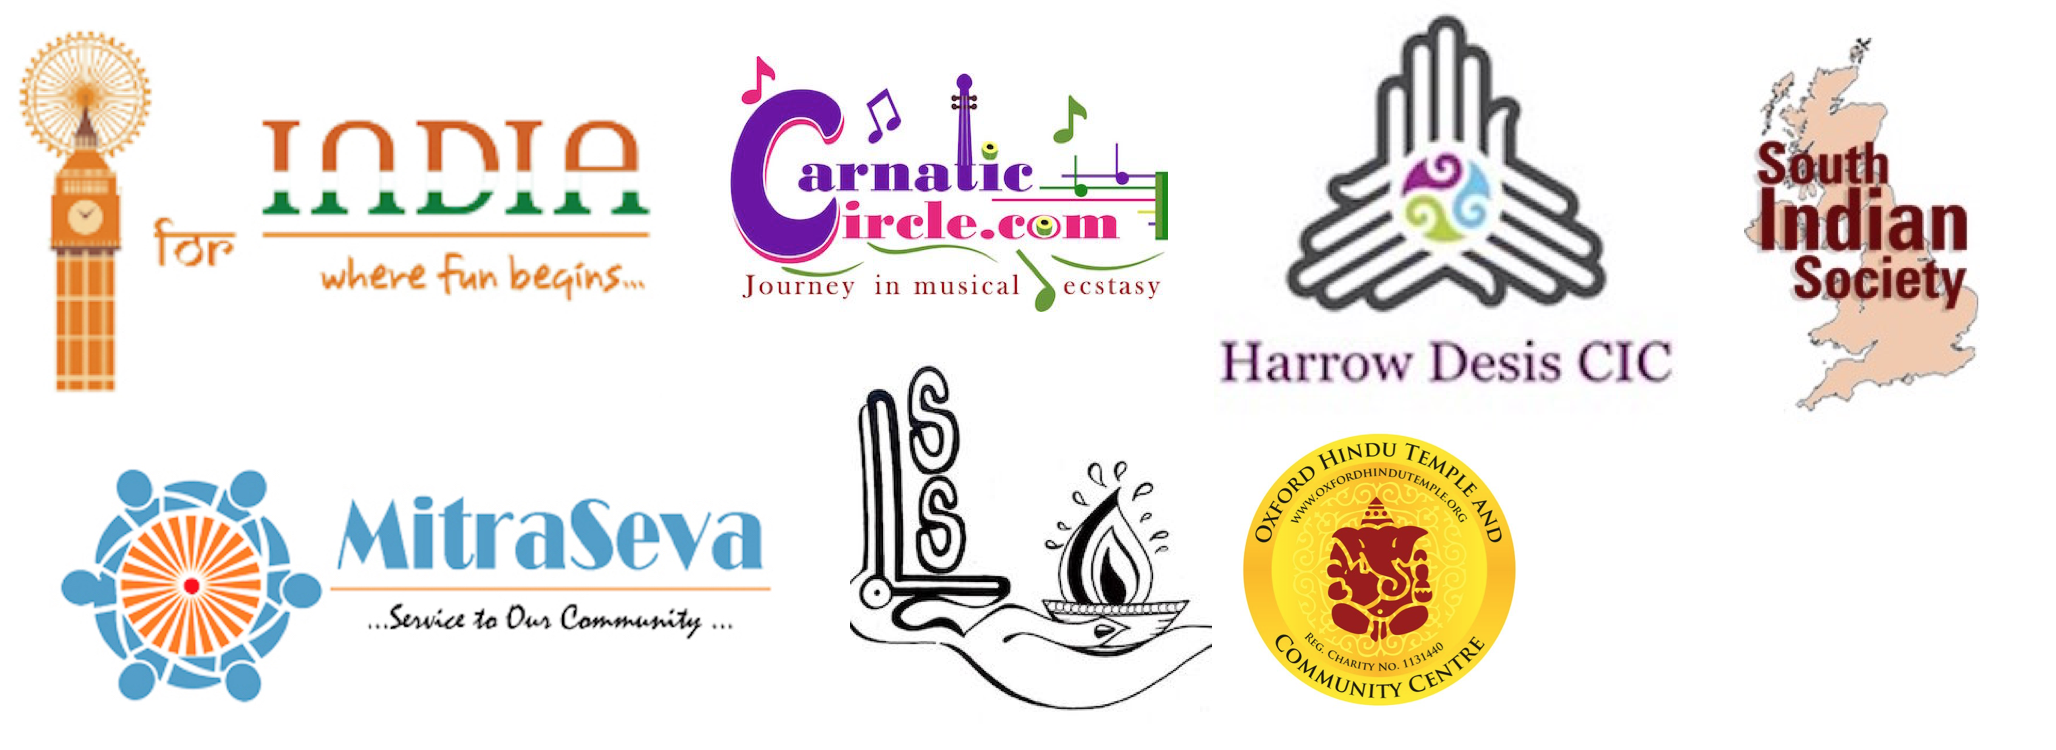
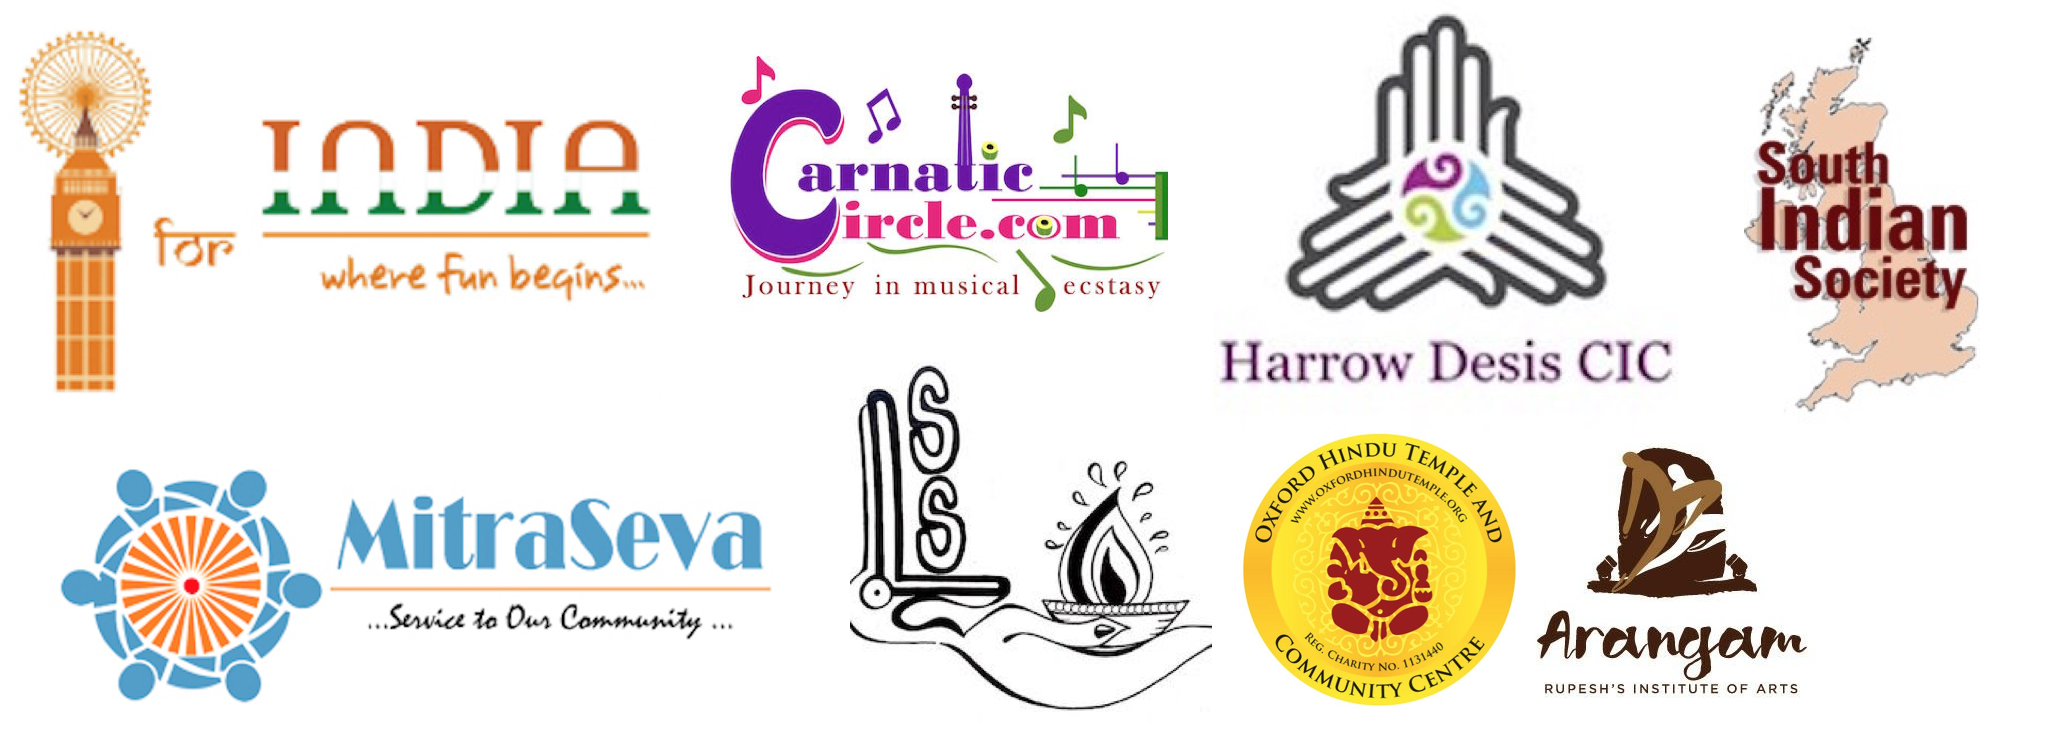
updated unchavrtti workshop

Changed region(s): [[0.7471, 0.5827, 0.8716, 0.92]]

diff --git a/index.html b/index.html
@@ -5,7 +5,7 @@
     <meta name="viewport" content="width=device-width, initial-scale=1, shrink-to-fit=no">
     <meta name="description" content="">
     <meta name="author" content="">
-    <title>Sri Radha Madhav Kalayanam UK 2018</title>
+    <title>Sri Radha Madhav Kalayanam UK</title>
 
     <!-- Bootstrap core CSS -->
     <link href="vendor/bootstrap/css/bootstrap.min.css" rel="stylesheet">
@@ -79,7 +79,24 @@
 
     <section class="bg-primary" id="invitation">
       <div class="container">
-        <h2 class="text-center text-uppercase">Invitation</h2>
+        <h2 class="text-center text-uppercase">Pre Events</h2>
+        <p>&nbsp;</p>
+        <div class="row">
+          <div class="col-md-12 col-lg-6">
+            <h3 class="text-center text-uppercase">Unchavrtti</h3>
+            <a class="portfolio-item d-block mx-auto" href="#portfolio-modal-4">
+              <img class="img-fluid" src="img/unchavrtti.jpg" alt="">
+            </a>
+          </div>
+          <div class="col-md-12 col-lg-6">
+            <h3 class="text-center text-uppercase">Bhajan Workshop</h3>
+            <a class="portfolio-item d-block mx-auto" href="#portfolio-modal-5">
+              <img class="img-fluid" src="img/workshop.jpg" alt="">
+            </a>
+          </div>
+        </div>
+        <p>&nbsp;</p>
+        <h2 class="text-center text-uppercase">Main Event Invitation</h2>
         <p>&nbsp;</p>
         <div class="row">
           <div class="col-md-12 col-lg-6">
@@ -172,14 +189,14 @@
               <h3>NOV</h3>
             </div>
             <div class="col-10">
-              <h3><strong>Shasta Kalyanam</strong></h3>
+              <h3><strong>Shri Poorna Pushkala Thiru Shasta Kalyanam</strong></h3>
               <ul class="list-inline">
                 <li class="list-inline-item"><i class="fa fa-calendar" aria-hidden="true"></i> Friday</li>
                 <li class="list-inline-item"><i class="fa fa-clock" aria-hidden="true"></i> 6:00 PM - 9:00 PM</li>
                 <li class="list-inline-item"><i class="fa fa-location-arrow" aria-hidden="true"></i> <strong>Harrow</strong></li>
               </ul>
-              <p><span class="text-left">T.B.D</span>
-                  <br><span class="text-left text-muted">RSVP: </span></p>
+              <p><span class="text-left">London Sree Ayyappan Temple, Harrow, HA3 5AR</span>
+                  <br><span class="text-left text-muted">RSVP: Raj - 07539 819931</span></p>
             </div>
           </div>
           <div class="row row-striped">
@@ -313,7 +330,7 @@
             <form action="https://www.paypal.com/cgi-bin/webscr" method="post" target="_top">
               <input type="hidden" name="cmd" value="_s-xclick">
               <input type="hidden" name="hosted_button_id" value="Q2WGV25DDZK5C">
-              <input type="submit" class="btn btn-lg rounded-pill btn-primary" value="Donate to Yajaman Seva">
+              <input type="submit" class="btn btn-lg rounded-pill btn-primary" value="Yajaman Seva">
             </form>
           </div>
           <div class="col-lg-4 col-sm-6 text-center mb-4">
@@ -323,7 +340,7 @@
             <form action="https://www.paypal.com/cgi-bin/webscr" method="post" target="_top">
               <input type="hidden" name="cmd" value="_s-xclick">
               <input type="hidden" name="hosted_button_id" value="T2JJVAZ53WK4S">
-              <input type="submit" class="btn btn-lg rounded-pill btn-primary" value="Donate to Annadhana Seva">
+              <input type="submit" class="btn btn-lg rounded-pill btn-primary" value="Annadhana Seva">
             </form>
           </div>
           <div class="col-lg-4 col-sm-6 text-center mb-4">
@@ -333,7 +350,7 @@
             <form action="https://www.paypal.com/cgi-bin/webscr" method="post" target="_top">
               <input type="hidden" name="cmd" value="_s-xclick">
               <input type="hidden" name="hosted_button_id" value="G8L2W9TP2GK9E">
-              <input type="submit" class="btn btn-lg rounded-pill btn-primary" value="Donate to Pushpa Seva">
+              <input type="submit" class="btn btn-lg rounded-pill btn-primary" value="Pushpa Seva">
             </form>
           </div>
         </div>
@@ -362,6 +379,18 @@
         <div class="row">
           <div class="col-lg-12">
             <h4 class="my-4 text-white">Our Sponsors</h4>
+          </div>
+          <div class="col-lg-4 col-sm-6 text-center mb-4">
+            <a href="http://lifelineprotect.co.uk/" target="_blank">
+                <img class="img-fluid img-thumbnail" height="300" src="img/sponsors/lifeline.jpg" alt="Lifeline Protect"></a>
+          </div>
+          <div class="col-lg-4 col-sm-6 text-center mb-4">
+            <a href="http://www.srirathiga.com/" target="_blank">
+                <img class="img-fluid img-thumbnail" height="300" src="img/sponsors/sri_rathiga.png" alt="Sri Rathiga"></a>
+          </div>
+          <div class="col-lg-4 col-sm-6 text-center mb-4">
+            <a href="https://www.facebook.com/theindianshop.co.uk/" target="_blank">
+                <img class="img-fluid img-thumbnail" height="300" src="img/sponsors/indian-shop.jpg" alt="Indian Shop"></a>
           </div>
         </div>
       </div>
@@ -965,6 +994,10 @@
                  <td>Oxford Hindu Temple</td>
                  <td><a href="http://www.oxfordhindutemple.org/" target="_blank">www.oxfordhindutemple.org</a></td>
                </tr>
+               <tr>
+                 <td>Arangam</td>
+                 <td><a href="https://www.facebook.com/ArangamRupeshsInstituteofArts/" target="_blank">Arangam Rupesh Institute of Arts</a></td>
+               </tr>
              </tbody>
            </table>
         </div>
@@ -1004,7 +1037,7 @@
 
     <div class="copyright py-4 text-center text-white">
       <div class="container">
-        <small>Copyright &copy; Radha Kalyanam UK 2018 - All Rights Reserved.</small>
+        <small>Copyright &copy; Radha Kalyanam UK - All Rights Reserved.</small>
       </div>
     </div>
 
@@ -1040,7 +1073,7 @@
         <div class="container text-center">
           <div class="row">
             <div class="col-lg-8 mx-auto">
-              <img class="img-fluid mb-5" src="img/flyer-2019-2.jpeg" alt="">
+              <img class="img-fluid mb-5" src="img/flyer-2019-2.jpg" alt="">
               <a class="btn btn-info btn-lg rounded-pill portfolio-modal-dismiss" href="#">
                 <i class="fa fa-close"></i>Close</a>
             </div>
@@ -1072,7 +1105,23 @@
         <div class="container text-center">
           <div class="row">
             <div class="col-lg-8 mx-auto">
-              <img class="img-fluid mb-5" src="img/patrikai-2.jpg" alt="">
+              <img class="img-fluid mb-5" src="img/unchavrtti.jpg" alt="">
+              <a class="btn btn-info btn-lg rounded-pill portfolio-modal-dismiss" href="#">
+                <i class="fa fa-close"></i>Close</a>
+            </div>
+          </div>
+        </div>
+      </div>
+    </div>
+    <div class="portfolio-modal mfp-hide" id="portfolio-modal-5">
+      <div class="portfolio-modal-dialog bg-dark">
+        <a class="close-button d-none d-md-block portfolio-modal-dismiss" href="#">
+          <i class="fa fa-2x fa-times"></i>
+        </a>
+        <div class="container text-center">
+          <div class="row">
+            <div class="col-lg-8 mx-auto">
+              <img class="img-fluid mb-5" src="img/workshop.jpg" alt="">
               <a class="btn btn-info btn-lg rounded-pill portfolio-modal-dismiss" href="#">
                 <i class="fa fa-close"></i>Close</a>
             </div>
